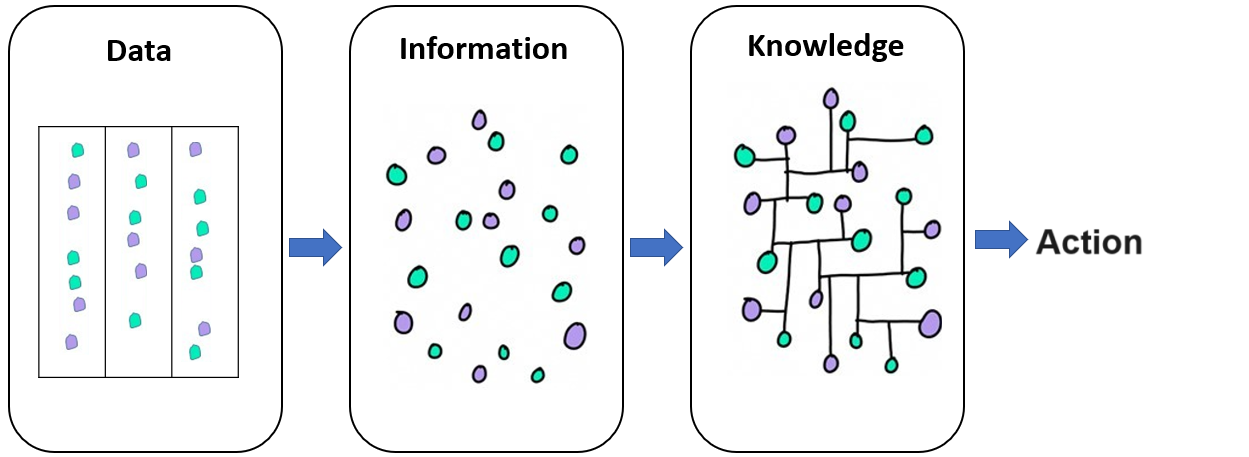
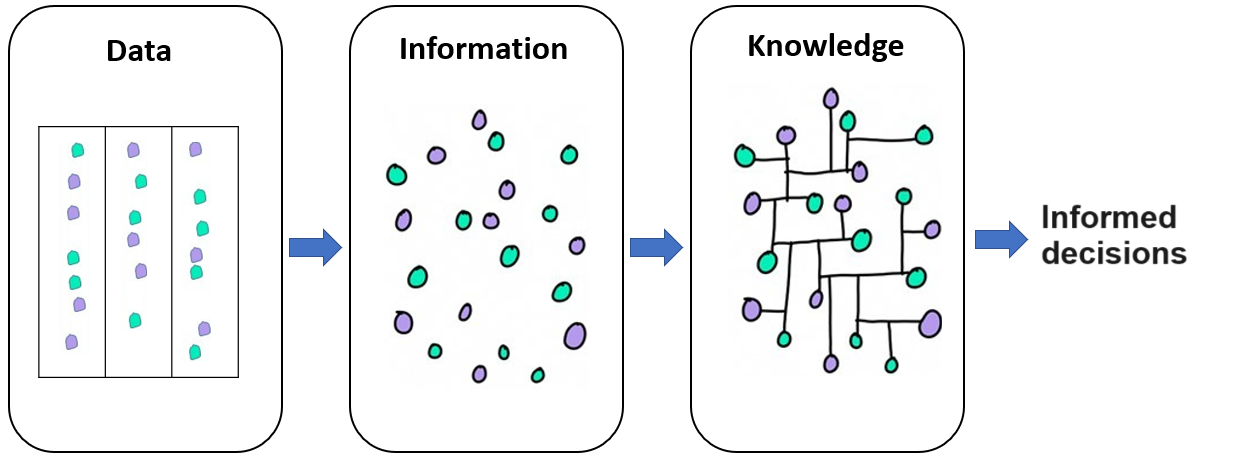
0.0.8

Changed region(s): [[0.8118, 0.4595, 0.968, 0.5821]]

diff --git a/_book/intro.html b/_book/intro.html
@@ -209,23 +209,24 @@ Figure&nbsp;1.1: The discipline of statistics and its two branches, descriptive 
 </section>
 <section id="data-and-variables" class="level2" data-number="1.2">
 <h2 data-number="1.2" class="anchored" data-anchor-id="data-and-variables"><span class="header-section-number">1.2</span> Data and variables</h2>
-<p>Data in the social sciences refers to the information collected and analyzed to understand human behavior, societal structures and interactions. This data can come from a variety of sources, each offering unique insights into different aspects of human and societal dynamics. These sources include:</p>
+<p>Data in the social and health sciences refers to the information collected and analyzed to understand human behavior, societal structures and interactions. This data originates from various sources, each offering unique insights into different aspects of human and societal dynamics. These sources include:</p>
 <ul>
-<li><p><strong>Electronic Health Records (EHRs):</strong> Provide detailed information about patients’ medical histories, treatments, and health outcomes.</p></li>
-<li><p><strong>Surveillance Systems:</strong> Continuously monitor and analyze trends in real-time, including disease outbreaks, rollout and uptake of vaccinations, public health patterns, substance abuse trends, and crime statistics, to inform timely interventions and policy decisions.</p></li>
-<li><p><strong>Clinical Registries:</strong> Collect data on patients with specific medical conditions or treatments, offering insights into health outcomes and social determinants of health.</p></li>
-<li><p><strong>Biobanks:</strong> Store biological samples (e.g., blood, tissue) along with health and lifestyle data, helping to study the intersection of genetics, environment, and social factors.</p></li>
-<li><p><strong>Internet and Social Media:</strong> Generate large volumes of data on online interactions, behaviors, and social trends.</p></li>
-<li><p><strong>Self-Reports:</strong> Gather data through interviews, questionnaires, and surveys that capture individual experiences, behaviors, and attitudes, providing qualitative insights that enhance understanding of personal perspectives and social phenomena.</p></li>
+<li><p><strong>Self-Reports:</strong> <img src="images/q_icon.png" width="35" height="33"> These are collected through interviews, questionnaires, and surveys, capturing individual experiences, behaviors, and attitudes. They provide qualitative insights that enhance our understanding of personal perspectives and social phenomena.</p></li>
+<li><p><strong>Internet and Social Media:</strong> <img src="images/internet_icon.png" width="35" height="33"> These platforms generate vast amounts of data on online interactions, behaviors, and social trends, offering valuable information on how people communicate and engage in the digital space.</p></li>
+<li><p><strong>Wearable Technology:</strong> <img src="images/wearable_icon.png" width="35" height="33"> Devices such as smartwatches, fitness trackers, smart glasses, and smart clothing equipped with sensors have become revolutionary tools for tracking and monitoring physiological and behavioral metrics in real-time. They provide critical insights into health, fitness, and daily habits.</p></li>
+<li><p><strong>Electronic Health Records (EHRs):</strong> <img src="images/ehr_icon.png" width="35" height="33"> EHRs offer detailed information about patients’ medical histories, treatments, and health outcomes, facilitating research on health trends and the effectiveness of interventions.</p></li>
+<li><p><strong>Health Surveillance Systems:</strong> <img src="images/surveillance_icon.png" width="35" height="33"> These systems continuously monitor and analyze trends in real-time, including disease outbreaks, vaccination uptake, public health patterns, substance abuse trends, and crime statistics, thereby informing timely interventions and policy decisions.</p></li>
+<li><p><strong>Clinical Registries:</strong> <img src="images/cl_registry_icon.png" width="35" height="33"> These collect data on patients with specific medical conditions or treatments, providing valuable insights into health outcomes and social determinants of health.</p></li>
+<li><p><strong>Biobanks:</strong> <img src="images/biobank_icon.png" width="35" height="33"> Biobanks store biological samples (e.g., blood, tissue) along with health and lifestyle data, enabling research into the intersections of genetics, environment, and social factors.</p></li>
 </ul>
-<p>Social, behavioral, and biomedical <strong>data</strong> can be transformed into <strong>information</strong>. This information can evolve into <strong>knowledge</strong> when social scientists and stakeholders interpret and understand it, allowing them to take informed <strong>actions</strong>.</p>
+<p>Social, behavioral, and biomedical <strong>data</strong> can be transformed into <strong>information</strong>. This information can evolve into <strong>knowledge</strong> when social scientists and stakeholders interpret and understand it, allowing them to make <strong>informed decisions</strong>, shape policies, and implement interventions that address societal and health-related challenges more effectively.</p>
 <div id="fig-info" class="quarto-float quarto-figure quarto-figure-center anchored">
 <figure class="quarto-float quarto-float-fig figure">
 <div aria-describedby="fig-info-caption-0ceaefa1-69ba-4598-a22c-09a6ac19f8ca">
 <img src="images/info.png" class="img-fluid figure-img" style="width:90.0%">
 </div>
 <figcaption class="quarto-float-caption-bottom quarto-float-caption quarto-float-fig" id="fig-info-caption-0ceaefa1-69ba-4598-a22c-09a6ac19f8ca">
-Figure&nbsp;1.2: From data to knowledge.
+Figure&nbsp;1.2: From data to knowledge and action.
 </figcaption>
 </figure>
 </div>

diff --git a/_book/index.html b/_book/index.html
@@ -7,7 +7,7 @@
 <meta name="viewport" content="width=device-width, initial-scale=1.0, user-scalable=yes">
 
 <meta name="author" content="Konstantinos I. Bougioukas, PhD">
-<meta name="dcterms.date" content="2024-10-02">
+<meta name="dcterms.date" content="2024-10-09">
 
 <title>Basic Statistics for the Social Sciences</title>
 <style>
@@ -170,7 +170,7 @@ ul.task-list li input[type="checkbox"] {
     <div>
     <div class="quarto-title-meta-heading">Published</div>
     <div class="quarto-title-meta-contents">
-      <p class="date">October 2, 2024</p>
+      <p class="date">October 9, 2024</p>
     </div>
   </div>
   
@@ -198,7 +198,7 @@ ul.task-list li input[type="checkbox"] {
 (function() {
   var script = document.currentScript;
   var qrcode = script.previousElementSibling;
-  qrcode.qrcode = new QRCode(qrcode, {"text":"https://statsocial.netlify.app/","width":"100","colorDark":"#0011bb","colorLight":"#ffffff","height":"100"});
+  qrcode.qrcode = new QRCode(qrcode, {"text":"https://statsocial.netlify.app/","height":"100","width":"100","colorLight":"#ffffff","colorDark":"#0011bb"});
   script.remove();
 })();
 </script>
